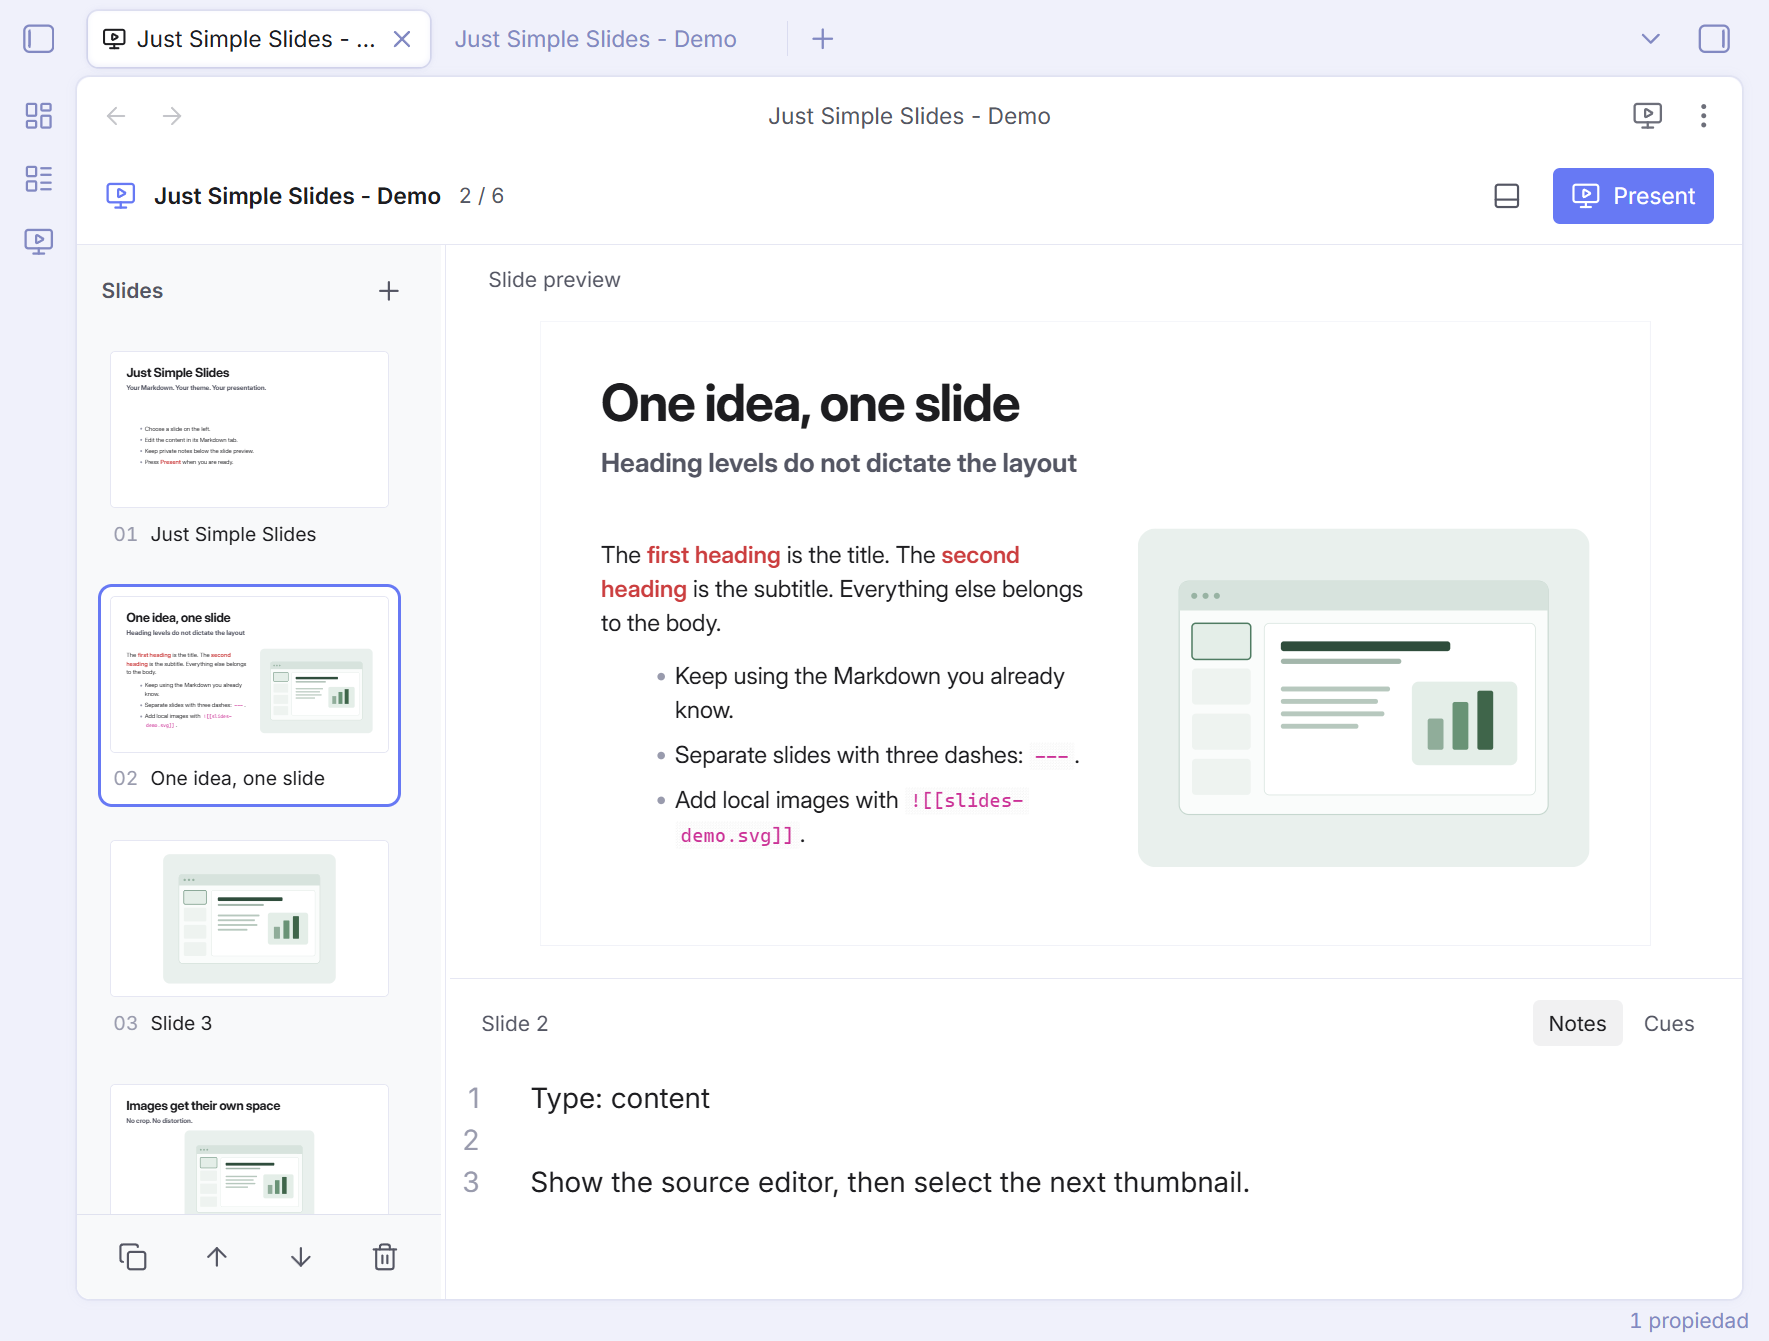
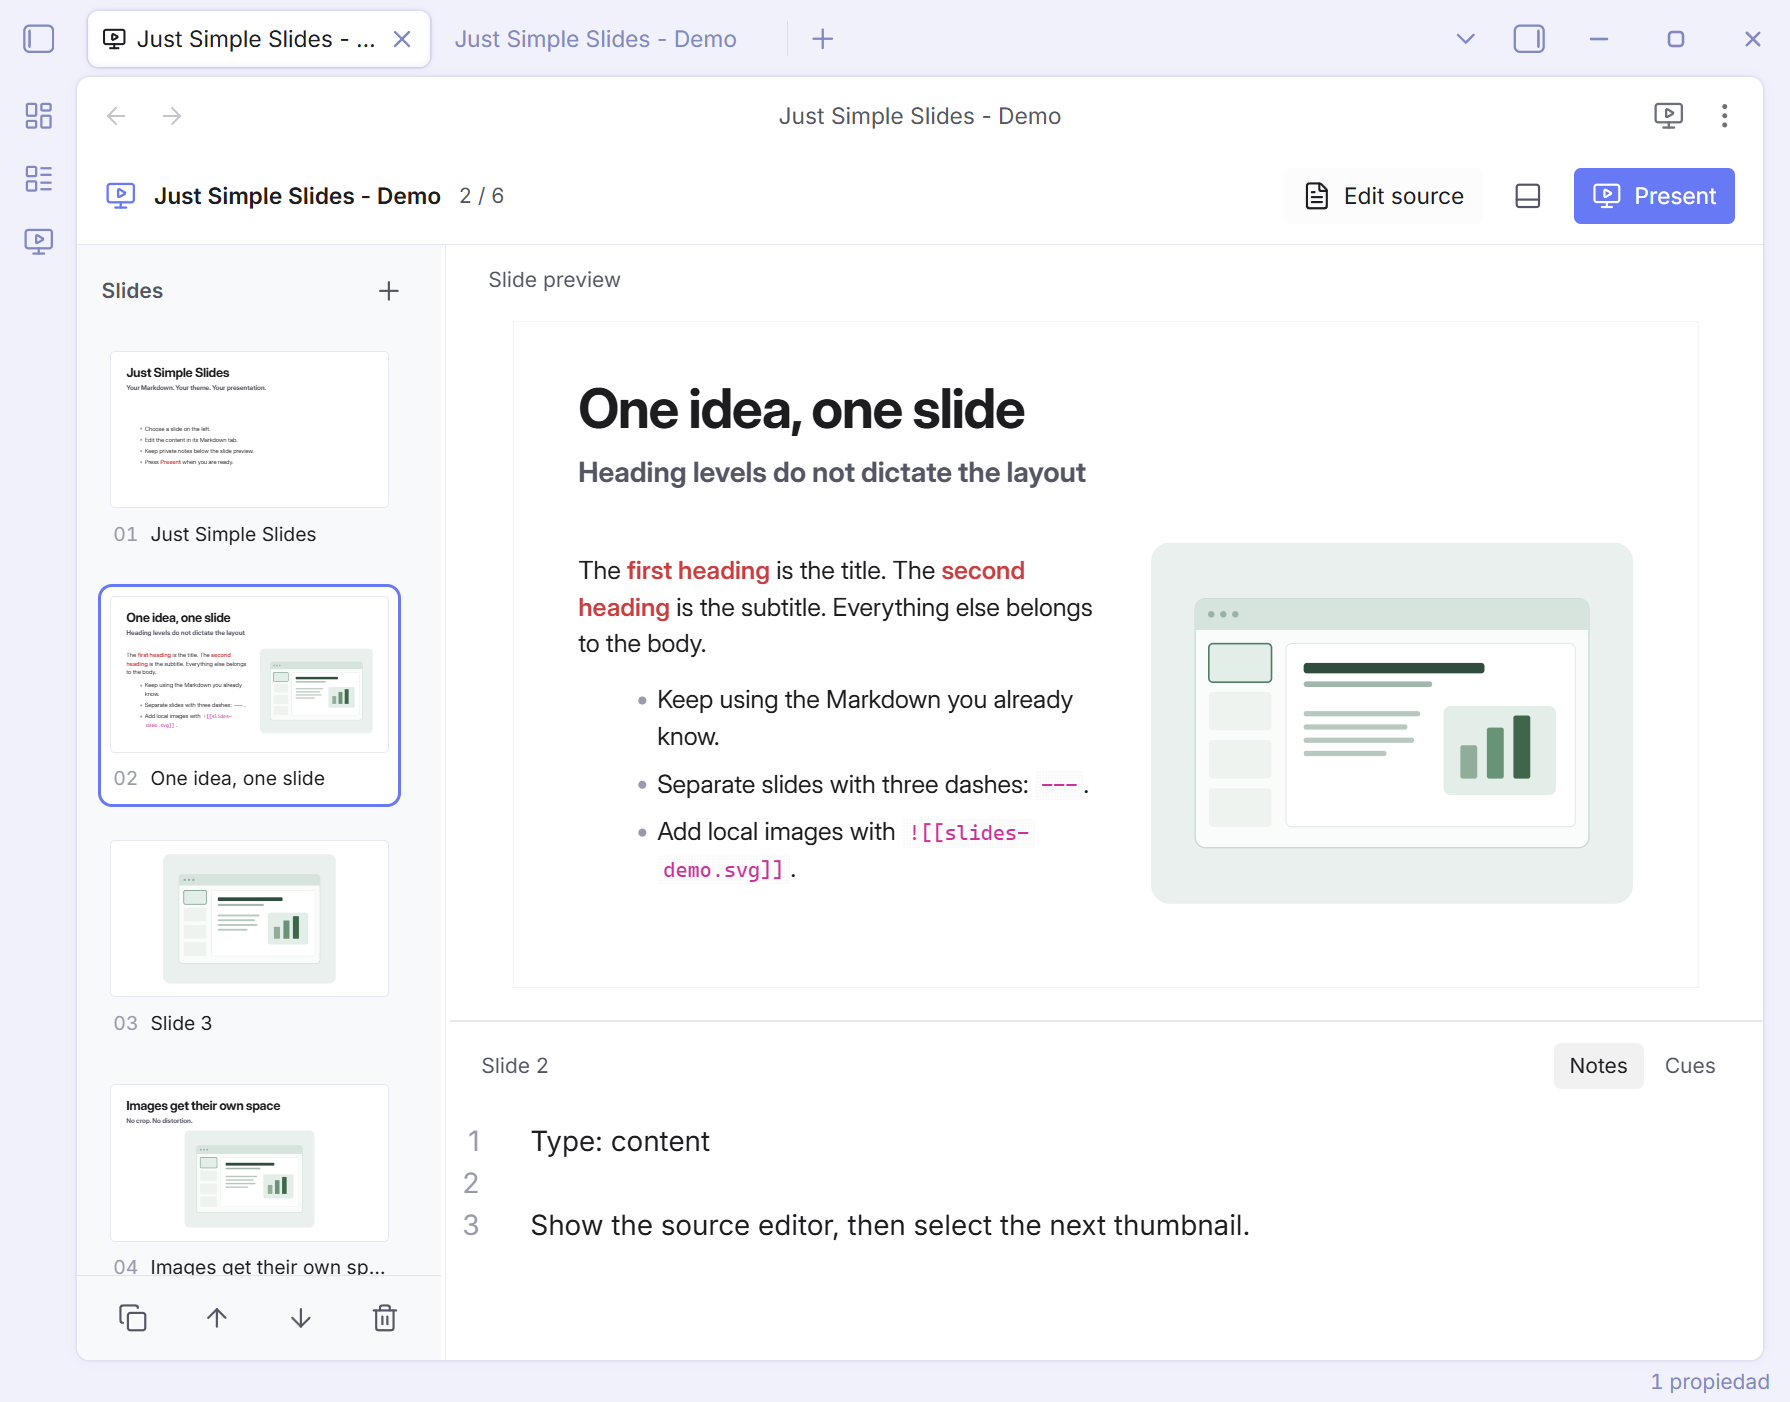
Jump to the selected slide in the existing Markdown editor (#4)

diff --git a/src/view.ts b/src/view.ts
@@ -129,6 +129,7 @@ export class SlidesView extends TextFileView {
     this.filename = identity.createSpan({ cls: 'jss-filename' });
     this.counter = identity.createSpan({ cls: 'jss-counter' });
     const actions = toolbar.createDiv({ cls: 'jss-toolbar-actions' });
+    this.button(actions, 'file-text', 'Edit selected slide in Markdown', () => { void this.editSource(); }, 'Edit source');
     this.button(actions, 'panel-bottom', 'Toggle slide editor', () => {
       this.root.toggleClass('jss-hide-source', !this.root.hasClass('jss-hide-source'));
       this.surface.scheduleFit();
@@ -527,6 +528,35 @@ export class SlidesView extends TextFileView {
   }
 
   selectSourceOffset(offset: number): void { this.select(slideAt(this.deck, offset)); }
+
+  private async editSource(): Promise<void> {
+    const file = this.file;
+    const slide = this.deck.slides[this.index];
+    if (!file || !slide) return;
+    const start = slide.start + Math.max(0, slide.markdown.search(/\S/));
+    // Obsidian's native editor uses logical LF offsets even for CRLF files.
+    const offset = this.source.slice(0, start).replace(/\r\n|\r/g, '\n').length;
+    await this.save();
+    let leaf = this.app.workspace.getLeavesOfType('markdown')
+      .find(leaf => leaf.view instanceof MarkdownView && leaf.view.file === file || leaf.getViewState().state?.file === file.path);
+    if (!leaf) {
+      leaf = this.app.workspace.getLeaf('tab');
+      await leaf.openFile(file, { state: { mode: 'source' }, active: true });
+    }
+    await this.app.workspace.revealLeaf(leaf);
+    if (leaf.view instanceof MarkdownView && leaf.view.getMode() !== 'source') {
+      const state = leaf.getViewState();
+      await leaf.setViewState({ ...state, state: { ...state.state, mode: 'source' } });
+    }
+    if (!(leaf.view instanceof MarkdownView)) return;
+    this.app.workspace.setActiveLeaf(leaf, { focus: true });
+    leaf.view.contentEl.ownerDocument.defaultView?.focus();
+    const editor = leaf.view.editor;
+    const cursor = editor.offsetToPos(offset);
+    editor.setCursor(cursor);
+    editor.scrollIntoView({ from: cursor, to: cursor }, true);
+    editor.focus();
+  }
 
   focusEditor(): void { if (this.deck.slides[this.index]?.areas[this.areaIndex]) this.editor?.focus(); }
 

diff --git a/styles.css b/styles.css
@@ -126,7 +126,9 @@
   .jss-thumb-number { display: none; }
   .jss-stage { margin: 10px; }
   .jss-stage-header { padding: 10px 10px 0; }
-  .jss-source-hint, .jss-density, .jss-toolbar .jss-text-button:not(.mod-cta) { display: none; }
+  .jss-source-hint, .jss-density { display: none; }
+  .jss-toolbar .jss-text-button:not(.mod-cta) { width: 32px; min-width: 32px; height: 32px; padding: 6px; }
+  .jss-toolbar .jss-text-button:not(.mod-cta) > span:last-child { display: none; }
   .jss-source-header { padding: 8px; }
   .jss-app .jss-editor-tab { font-size: 11px; padding: 3px 6px; }
   .jss-source-header > span { display: none; }

diff --git a/VALIDATION.md b/VALIDATION.md
@@ -1,10 +1,11 @@
-# Local validation — 0.1.7
+# Local validation — 0.1.8
 
 Checked on 17 October 2026, Windows desktop, in the actual Obsidian application with an isolated vault and application profile.
 
 - `npm run check`: the full official Obsidian ESLint recommended configuration, CSS compatibility checks, 32 unit tests, strict TypeScript, production build, and version/asset packaging passed with zero lint warnings. The sentence-case rule preserves the plugin name as a brand; no rules are disabled.
-- `scripts/qa-obsidian.mjs`: 87 integration checks passed against the actual Obsidian application, with no runtime errors. The JSON report and original screenshots are in the ignored `qa/` folder.
-- Checked that opening slides from Markdown creates a new tab, preserves the original native editor and cursor, and follows that cursor to the matching slide. Repeating the command from Markdown creates another slide tab. The toolbar has no Markdown button and the lower panel has no full source selector.
+- `scripts/qa-obsidian.mjs`: 99 integration checks passed against the actual Obsidian application, with no runtime errors. The JSON report and original screenshots are in the ignored `qa/` folder.
+- Checked that opening slides from Markdown creates a new tab, preserves the original native editor and cursor, and follows that cursor to the matching slide. Repeating the command from Markdown creates another slide tab. The lower panel has no full source selector.
+- Checked **Edit source** reuses the original native editor, focuses and scrolls to the selected first, middle, and last slides, and leaves both tabs and content intact. Checked navigation after reordering, pending private notes, original CRLF offsets, reading-to-editing mode, opening a missing note tab, and reusing/focusing a real Obsidian pop-out window. The action remains visible as an accessible icon in a narrow pane.
 - Checked one selector per private callout, source order, optional names, repeated names, unnamed and empty areas. Slides without callouts show a non-editable hint; adding the first callout in native Markdown replaces it with an area editor.
 - Checked actual editor input into the second area, byte-for-byte preservation outside that body, arbitrary Markdown without a type form, independent same-name areas, clearing a body without deleting the callout, undo/redo across area selection, and autosave to the real file. CRLF bodies load as separate logical editor lines, and the area replacement preserves surrounding bytes in memory. The native Obsidian editor normalizes CRLF to LF on save; checked that every line survives that normalization.
 - Checked live selector updates after renaming, adding and removing callouts in the native Markdown editor, plus Left/Right, Home and End navigation.

diff --git a/README.md b/README.md
@@ -18,7 +18,7 @@ Markdown is the perfect format for content: plain text, easy to edit, easy to re
 
 1. Open a Markdown note.
 2. Run **Just Simple Slides: Edit as slides**, click the presentation ribbon icon, or right-click the note and choose **Edit as slides**. The slide view opens in a new tab, keeping your Markdown editor, selection, and undo history in place.
-3. Pick a thumbnail on the left. Edit the content in its original Markdown tab; select a private `[!slide]` area below the preview to edit its notes. You can also move or split the tabs using Obsidian's normal window controls.
+3. Pick a thumbnail on the left. Click **Edit source** to focus the existing Markdown editor at that slide, including in another Obsidian window. If the note was closed, a new Markdown tab opens. Select a private `[!slide]` area below the preview to edit its notes. You can also move or split the tabs using Obsidian's normal window controls.
 4. Click **Present**, press **F5**, or run **Just Simple Slides: Start presentation**.
 5. Press **Esc** to return to the same slide. Close the Just Simple Slides tab with its native **×** or **Ctrl/Cmd+W** when finished; your Markdown tab stays open.
 

diff --git a/CHANGELOG.md b/CHANGELOG.md
@@ -1,5 +1,10 @@
 # Changelog
 
+## 0.1.8
+
+- Add **Edit source** to jump to the selected slide in the existing native Markdown editor, including pop-out windows, without closing the slide tab or creating duplicate note tabs.
+- Switch reading view into editing when needed. If the native note was closed, open a new tab at the selected slide. Preserve pending notes and handle native editor offsets for CRLF files.
+
 ## 0.1.7
 
 - Open slides from Markdown in a new Obsidian tab, preserving the original editor, selection, and undo history. Close the slide tab using Obsidian's normal controls.
